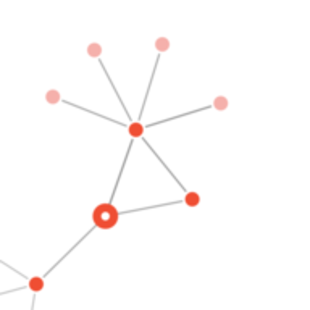
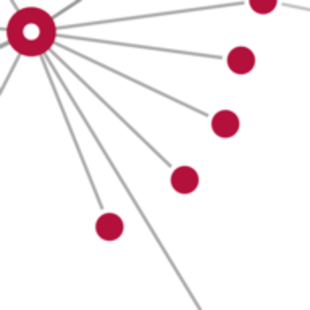
updates

Changed region(s): [[0.0, 0.0, 1.0, 1.0], [0.4645, 0.4645, 0.6677, 0.6677], [0.5516, 0.8419, 0.6677, 1.0]]

diff --git a/js/main.js b/js/main.js
@@ -86,11 +86,9 @@ $(function() {
         }
 
         if( artist.length > lenLimit ) {
-            console.log("add class");
             $("#hint").addClass( "long" );
         }
         else {
-            console.log("remove class");
             $("#hint").removeClass( "long" );
         }
 
@@ -289,12 +287,9 @@ $(function() {
                             if(e.group == 0) {
                                 color = "white";
                             } else if(e.group == 1) {
-                                color = "#B50938";
-                                //color = "#F24D29";
-                                //color = "#1DACE8";
+                                color = "#D1362F";
                             } else if(e.group == 2) {
-                                //color = "#F7B0AA";
-                                color = "#E895AB";
+                                color = "#E6908C";
                             } else if(e.group == 3) {
                                 color = "#C4CFD0"
                             }
@@ -477,11 +472,9 @@ $(function() {
                             if(e.group == 0) {
                                 color = "white";
                             } else if(e.group == 1) {
-                                color = "#AB5E73";
-                                //color = "#F24D29";
-                                //color = "#1DACE8";
+                                color = "#D1362F";
                             } else if(e.group == 2) {
-                                color = "#F7B0AA";
+                                color = "#E6908C";
                             } else if(e.group == 3) {
                                 color = "#C4CFD0"
                             }
@@ -618,8 +611,6 @@ $(function() {
 
                     if(data.length == 0) {
                         
-                        console.log("no results");
-
                     } else {
 
                         $.each(data, function( index, value ) {

diff --git a/css/main.css b/css/main.css
@@ -83,7 +83,7 @@ html, body, ul, li, p, div, input {
   font-family: "Helvetica Neue",Helvetica,Arial,sans-serif; }
 
 a {
-  color: #b50938; }
+  color: #D1362F; }
 
 input {
   border-radius: 0;
@@ -98,7 +98,7 @@ input {
     float: right;
     margin-right: 50px;
     margin-top: 50px;
-    background-color: #b50938;
+    background-color: #D1362F;
     color: white;
     padding-left: 24px;
     padding-right: 24px;
@@ -126,7 +126,7 @@ input {
 
 circle.degree-0 {
   r: 5px;
-  stroke: #b50938;
+  stroke: #D1362F;
   stroke-width: 5px; }
 
 .search-wrapper {
@@ -234,7 +234,7 @@ body.loading .modal {
   #mobile-header {
     display: block;
     width: 100%;
-    background-color: #b50938;
+    background-color: #D1362F;
     padding-top: 24px;
     padding-bottom: 24px; }
     #mobile-header h1, #mobile-header p {
@@ -309,7 +309,7 @@ body.loading .modal {
     text-align: center; }
     .bacon-container .bacon-submit button {
       margin-top: 50px;
-      background-color: #b50938;
+      background-color: #D1362F;
       color: white;
       font-size: 24px;
       padding: 12px 24px;

diff --git a/sass/_networks.scss b/sass/_networks.scss
@@ -1,7 +1,9 @@
 
   //$site-color: #F24D29;
-  $site-color: #b50938;
-  $site-color-light: #E895AB;
+  //$site-color: #b50938;
+  //$site-color: #000044;
+  $site-color: #D1362F;
+  $site-color-light: #E6908C;
   $footer-bg: #F8F9F9;
   $box-shadow: 0 3px 6px rgba(0,0,0,0.16), 0 3px 6px rgba(0,0,0,0.23);
 

diff --git a/index.php b/index.php
@@ -7,6 +7,8 @@
   <title>Medias Res: Explore the social networks of artists</title>
   <meta name="title" content="Medias Res: Explore the social networks of artists">
   <meta name="description" content="In medias res is Latin for “in the middle of things” and is used to describe a story that picks up somewhere in between the beginning and the end of events. This site is meant to illustrate that great artists often emerge out of preexisting movements or influences before going on to change culture and, in turn, influence future artists.">
+  <meta name="author" content="Jay Mollica">
+
 
   <!-- Open Graph / Facebook -->
   <meta property="og:type" content="website">
@@ -50,7 +52,7 @@
         </form>
         <ul id="suggestion-results" class="suggestion-list"></ul>
         <div id="bio">
-          <p class="artist-bio">Search for an artist to explore their social network.</p><p>Not sure where to start? Try <a href="#" class="artist-link" id="500018666">Georgia O&rsquo;Keefe</a> or <a href="#" class="artist-link" id="500009666">Pablo Picasso</a>.
+          <p class="artist-bio">Search for an artist to explore their social network.</p><p>Not sure where to start? Try <a href="#" class="artist-link" id="500018666">Georgia O&rsquo;Keeffe</a> or <a href="#" class="artist-link" id="500009666">Pablo Picasso</a>.
         </div>
       </div>
     </div>
